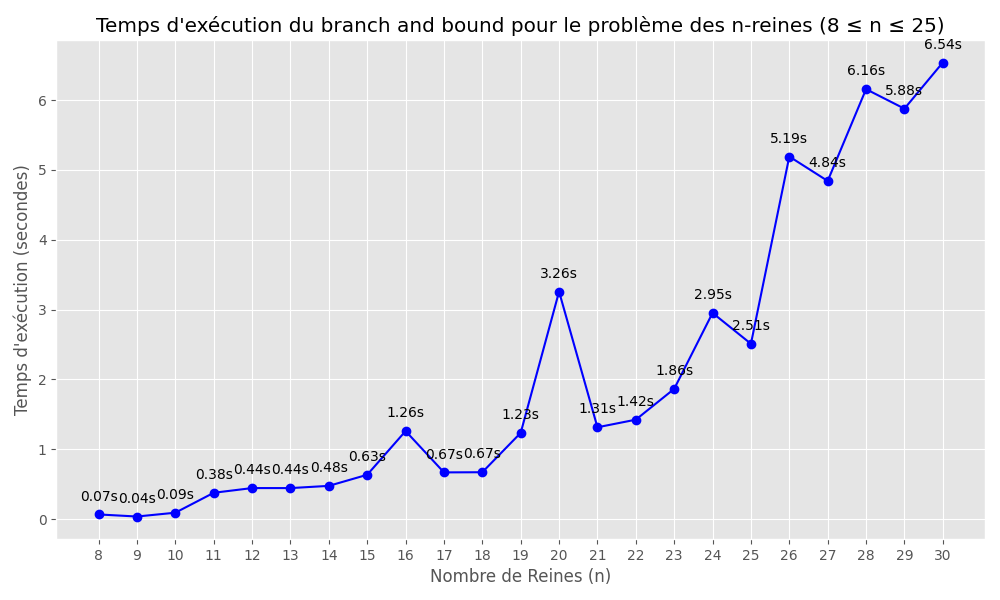
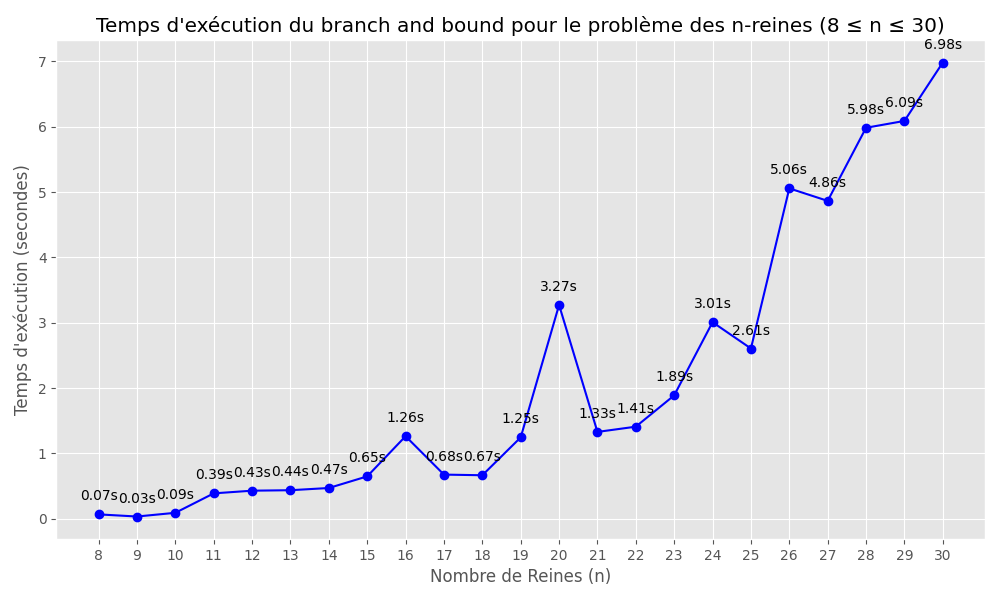
plot update

diff --git a/nqueens_curve.py b/nqueens_curve.py
@@ -46,11 +46,11 @@ def run_simplexe_nqueens(n_start, n_end):
     print("Mesures terminées.")
     return n_values, execution_times
 
-def plot_performance_curve(n_values, times):
+def plot_performance_curve(n_values, times, nend):
     plt.style.use('ggplot') 
     plt.figure(figsize=(10, 6))
     plt.plot(n_values, times, marker='o', linestyle='-', color='b')
-    plt.title("Temps d'exécution du branch and bound pour le problème des n-reines (8 ≤ n ≤ 25)")
+    plt.title(f"Temps d'exécution du branch and bound pour le problème des n-reines (8 ≤ n ≤ {nend})")
     plt.xlabel("Nombre de Reines (n)")
     plt.ylabel("Temps d'exécution (secondes)")
     
@@ -69,4 +69,4 @@ if __name__ == "__main__":
     n_values, times = run_simplexe_nqueens(n_start, n_end)
 
     if n_values and times:
-        plot_performance_curve(n_values, times)
+        plot_performance_curve(n_values, times, n_end)
